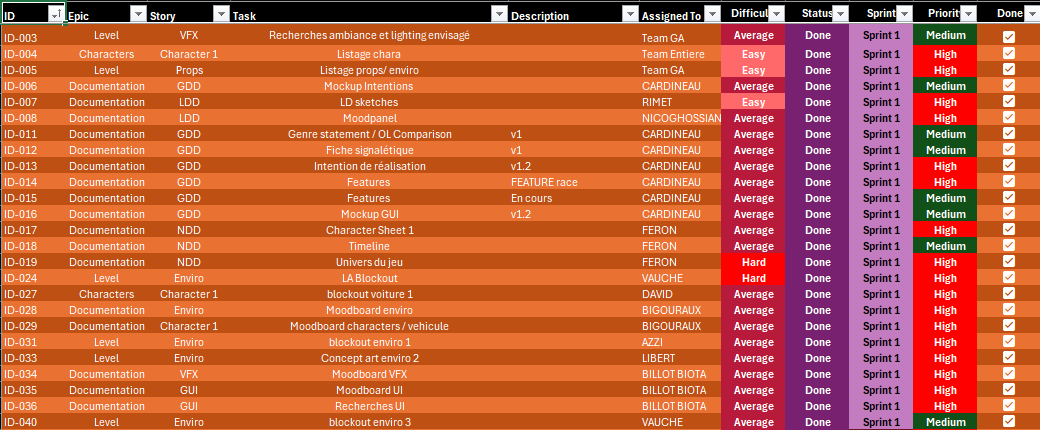
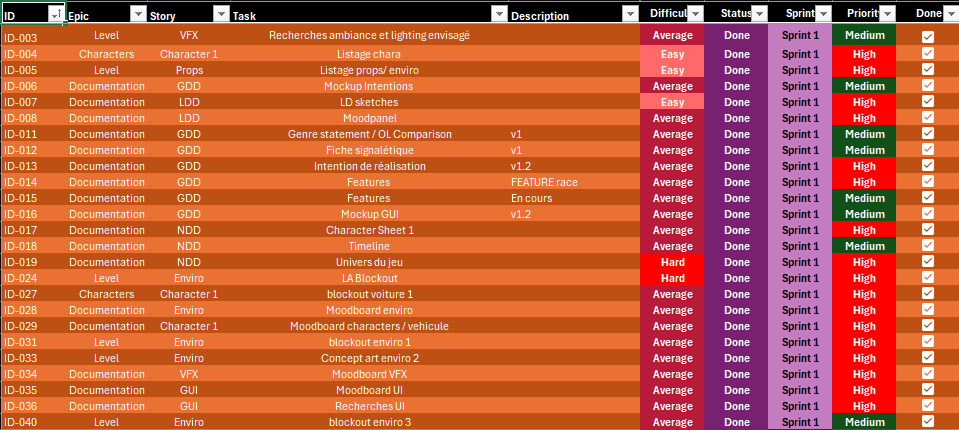
Fusion : noms retirés des backlogs et tableaux de bord
Claude-Session: https://claude.ai/code/session_01QtLoCRjyjnrE9a4PUV17cc

Changed region(s): [[0.121, 0.0, 0.9979, 1.0], [0.0, 0.0, 0.2419, 0.9977], [0.0907, 0.0605, 0.121, 0.0907]]

diff --git a/js/contenu.js b/js/contenu.js
@@ -459,7 +459,7 @@ const PROJECTS_FR = {
               T("Chaque équipe avait son backlog Excel, rangé par epic et par story (220 tâches pour HellStorm, 348 pour Wakfu Riders), avec un onglet par sprint et un par membre."),
               T("L'environnement était le poste le plus lourd : 72 tâches chez HellStorm, 131 chez Wakfu Riders.")
             ],[ CAROUSEL([["images/fusion-wk-carte.jpg","La carte de Wakfu Riders en construction dans Unreal Engine"],["images/fusion-wk-village.jpg","Wakfu Riders : le village et ses vignes dans l'éditeur"]]) ]),
-            LIGNE([ CAROUSEL([["images/fusion-hs-backlog.png","Extrait du backlog de HellStorm : epics, stories, personnes, difficultés, statuts, sprints et priorités"],["images/fusion-wk-backlog.png","Extrait du backlog de Wakfu Riders"],["images/fusion-hs-dashboard.png","Le tableau de bord de HellStorm : avancement global et accès aux onglets de chacun"],["images/fusion-wk-dashboard.png","Le tableau de bord de Wakfu Riders : 341 tâches terminées sur 348"]],"pano") ])
+            LIGNE([ CAROUSEL([["images/fusion-hs-backlog.png","Extrait du backlog de HellStorm : epics, stories, difficultés, statuts, sprints et priorités"],["images/fusion-wk-backlog.png","Extrait du backlog de Wakfu Riders"],["images/fusion-hs-dashboard.png","Le tableau de bord de HellStorm : avancement global et accès aux sprints"],["images/fusion-wk-dashboard.png","Le tableau de bord de Wakfu Riders : 341 tâches terminées sur 348"]],"pano") ])
           ]),
           BANDE("III","Suivre deux équipes",[
             LIGNE([
@@ -934,7 +934,7 @@ const PROJECTS_EN = {
               T("Each team had its Excel backlog, sorted by epic and story (220 tasks for HellStorm, 348 for Wakfu Riders), with one tab per sprint and one per member."),
               T("Environment art was the heaviest area: 72 tasks for HellStorm, 131 for Wakfu Riders.")
             ],[ CAROUSEL([["images/fusion-wk-carte.jpg","The Wakfu Riders map under construction in Unreal Engine"],["images/fusion-wk-village.jpg","Wakfu Riders: the village and its vineyards in the editor"]]) ]),
-            LIGNE([ CAROUSEL([["images/fusion-hs-backlog.png","Excerpt from the HellStorm backlog: epics, stories, owners, difficulties, statuses, sprints and priorities"],["images/fusion-wk-backlog.png","Excerpt from the Wakfu Riders backlog"],["images/fusion-hs-dashboard.png","The HellStorm dashboard: overall progress and links to each person's tab"],["images/fusion-wk-dashboard.png","The Wakfu Riders dashboard: 341 of 348 tasks done"]],"pano") ])
+            LIGNE([ CAROUSEL([["images/fusion-hs-backlog.png","Excerpt from the HellStorm backlog: epics, stories, difficulties, statuses, sprints and priorities"],["images/fusion-wk-backlog.png","Excerpt from the Wakfu Riders backlog"],["images/fusion-hs-dashboard.png","The HellStorm dashboard: overall progress and links to the sprints"],["images/fusion-wk-dashboard.png","The Wakfu Riders dashboard: 341 of 348 tasks done"]],"pano") ])
           ]),
           BANDE("III","Following two teams",[
             LIGNE([

diff --git a/index.html b/index.html
@@ -24,7 +24,7 @@
 <meta property="og:locale" content="fr_FR">
 <meta property="og:locale:alternate" content="en_GB">
 <meta name="twitter:card" content="summary_large_image">
-<link rel="stylesheet" href="css/style.css?v=20261108-1119">
+<link rel="stylesheet" href="css/style.css?v=20261108-1124">
 </head>
 
 <body>
@@ -40,8 +40,8 @@
   <h2 id="h-legal" class="sr">Informations légales</h2><div class="legal-row" id="legal"></div>
 </div></footer>
 
-<script src="js/images-m.js?v=20261108-1119"></script>
-<script src="js/contenu.js?v=20261108-1119"></script>
-<script src="js/app.js?v=20261108-1119"></script>
+<script src="js/images-m.js?v=20261108-1124"></script>
+<script src="js/contenu.js?v=20261108-1124"></script>
+<script src="js/app.js?v=20261108-1124"></script>
 </body>
 </html>
